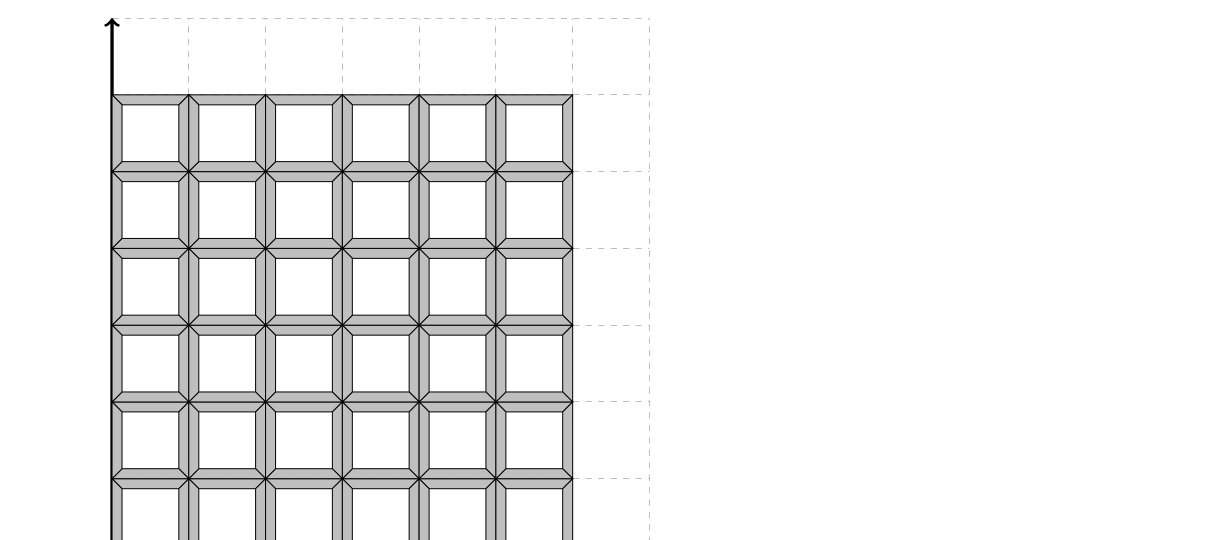
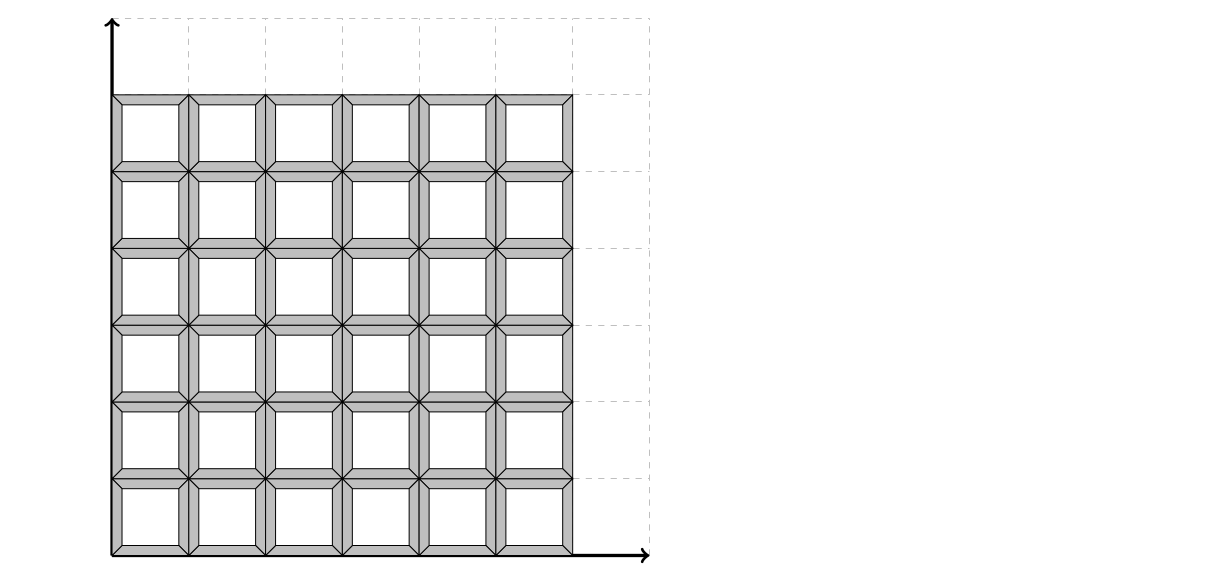
added a picture, more

diff --git a/issues/pictures/pictures.tex b/issues/pictures/pictures.tex
@@ -12,7 +12,7 @@
  %% pdftocairo  -x 50 -y 50  -H 680 -f 54 -l 54 -png pictures.pdf pictures 
  %% above is the big graph with 11 nodes
  
-  % pdftocairo  -x 50 -y 50  -H 540 -f 55 -l 55 -png pictures.pdf 
+  % pdftocairo  -x 50 -y 50  -H 580 -f 55 -l 55 -png pictures.pdf 
   
 \documentclass[12pt]{article}
 
